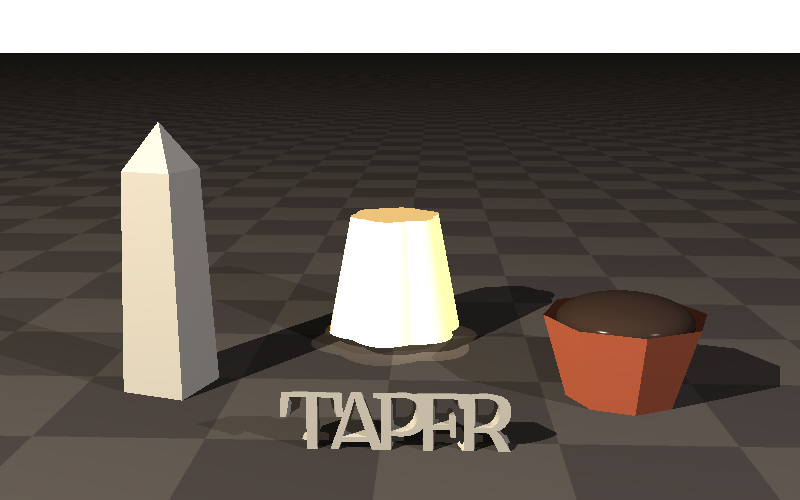
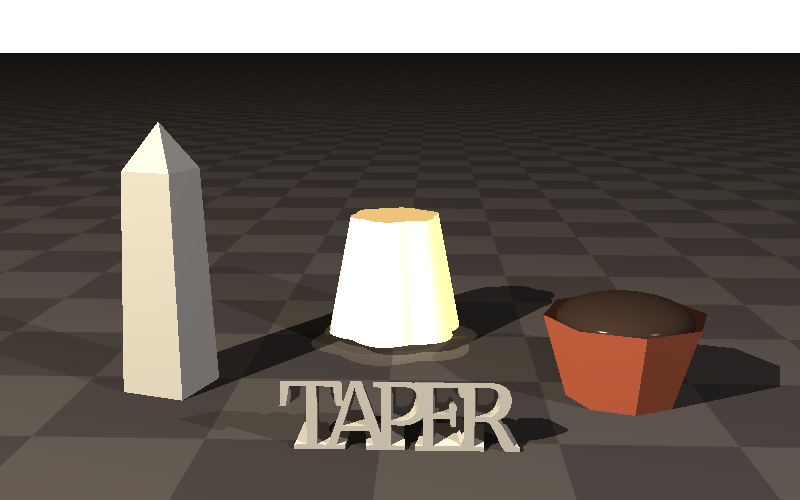
Lift the word clear of the floor
A glyph is tapered about its own middle, so a taper over 1 grows it in every direction from that
middle -- downward past the baseline exactly as much as upward past the cap.  The word was left
standing at nought, so its widest face, the one facing the reader, was buried in the floor along
with the foot of the E and the tail of the R.

The drop is half the cap height times what the taper adds, which for a cap of about 0.35 at a
taper of 1.5 is a little under a tenth of a unit, and that is what the word gets back.  Measured
rather than guessed at: the same word at a taper of 1 sits on the floor with its full height
showing, which is what says the taper is what buried it.  A tenth and a half over lifts it far
enough to read as floating.

Changed region(s): [[0.3438, 0.75, 0.7188, 0.9]]

diff --git a/docs/advanced-surfaces.md b/docs/advanced-surfaces.md
@@ -821,6 +821,12 @@ two ends: any that did would also read the letters backwards.
 Much over about 1.5 and the letters start to grow into one another, since each spreads about its
 own middle into whatever gap the layout left.
 
+**A taper over 1 also grows each glyph downward.**  It spreads about the glyph's own middle, so the
+widest face reaches below the baseline by as much as it reaches above the cap — and text stood on a
+floor at nought sinks that face into it, taking the foot of an `E` or the tail of an `R` with it.
+Lift the text by about half the cap height times what the taper adds: at a cap of 0.35 and a taper
+of 1.5, a little under a tenth of a unit.
+
 **Each glyph is tapered about its own middle, not about the scene's Y axis.**  That is the one
 place this differs from an extrusion, and it has to: a line of text is laid out along X, so every
 letter but the first sits well off the axis a taper draws towards.  Tapering them where they stand
